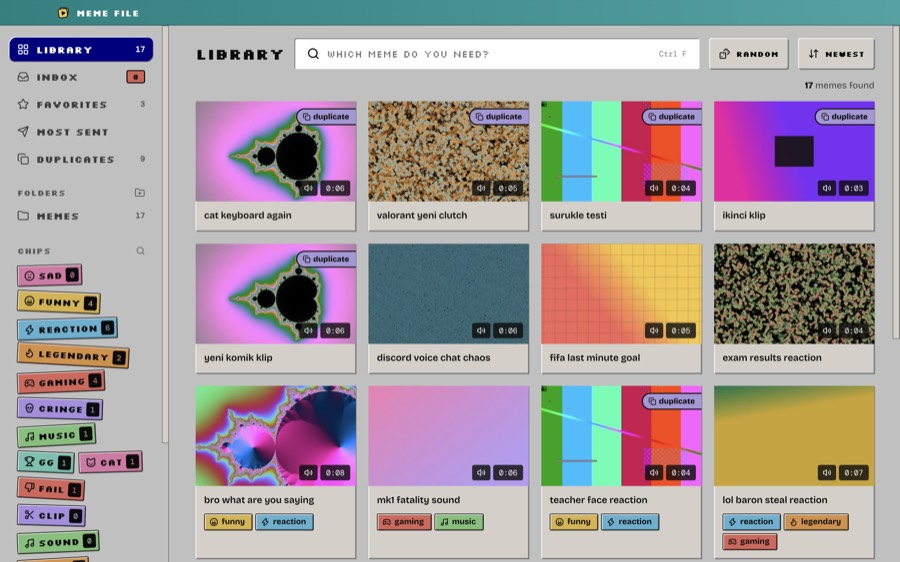
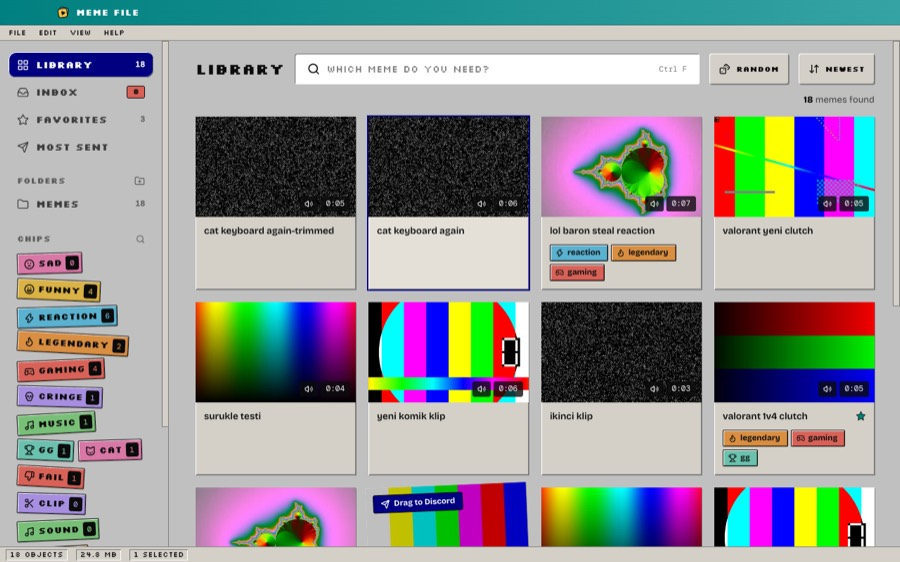
docs: README'ler ve tema ekran görüntüleri v0.4.0'a güncellendi

diff --git a/README.md b/README.md
@@ -47,7 +47,7 @@ tagging layer on top of them.
 <td valign="top"><b>Stays fast</b><br/>Virtualized grid and SQLite full-text search; smooth 60 FPS scrolling as the library grows.</td>
 </tr>
 <tr>
-<td valign="top"><b>Four themes</b><br/>Sticker Wall, a yellow hologram Cyberpunk, a steel-plate Modern and a Windows 98 Old School, each with its own chips and motion.</td>
+<td valign="top"><b>Four themes with a soul</b><br/>Sticker Wall, a yellow hologram Cyberpunk, a steel-plate Modern and a Windows 98 Old School — each with its own typography, chips, motion and sound.</td>
 <td valign="top"><b>Drop it in</b><br/>Drag files onto the window or press <code>Ctrl+V</code>; the Inbox even suggests chips from the file name.</td>
 <td valign="top"><b>Meme text</b><br/>Add top and bottom captions to a clip, exactly as you see them in the preview.</td>
 </tr>
@@ -99,14 +99,16 @@ The estimated size updates live; the encoder picks bitrate, resolution and frame
 **Editing**
 
 - Trim, fit to 10 MB / 50 MB, or make a GIF; the result is copied to the clipboard, and new videos inherit the chips
-- Burn **meme text** onto a clip: top and bottom captions, drawn in the preview exactly as they come out
+- Burn **meme text** onto a clip: top and bottom captions in three sizes, drawn in the preview exactly as they come out
 - Select several videos and fit them all at once from the selection bar
 - Rename (the file on disk too) and move to the Recycle Bin; moved or renamed files keep their chips
 
 **App**
 
 - **Stats** screen: totals, the last 12 months, most sent videos, chip spread and records
-- Four themes with their own chips, backgrounds and motion
+- Four themes with their own chips, backgrounds, motion and sound
+- Interface sounds generated on the fly, one voice per theme — switch off in Settings
+- Text size for the whole interface (small / medium / large)
 - English and Turkish UI, following the system language
 - System tray, start with Windows, automatic updates from GitHub Releases, JSON backup & restore
 
@@ -124,7 +126,12 @@ The estimated size updates live; the encoder picks bitrate, resolution and frame
 
 ## Themes
 
-Themes are not just a palette swap: the shell, the card frames, the chip surface, the typeface and the motion profile all change together. Your chip colors stay in the database and are translated onto the theme's surface.
+Themes are not a palette swap: the shell, the card frames, the chip surface, the typeface, the motion profile and even the interface sounds change together. Your chip colors stay in the database and are translated onto the theme's surface.
+
+- **Sticker Wall** — lined notebook, bouncy springs, a paper corner that folds up on hover, paper-rustle sounds
+- **Cyberpunk** — boots like an OS (`NEON_PRISM_OS`), live status strip, CRT scanlines, Chakra Petch / Share Tech Mono, hologram chips whose labels tear into red and cyan on hover, cyan-and-red electric arcs crackling around the hovered card, a terminal-style player, alarm-red buttons
+- **Modern** — brushed steel plates, rivets on the name strip, a light sweeping across the card, calm slow motion
+- **Old School 98** — grey bevels, teal title bar, a real File/Edit/View/Help menu, a status bar (`17 objects · 20.0 MB`), classic dialog boxes and system beeps
 
 | **Sticker Wall** · warm dark, lined notebook                               | **Cyberpunk** · yellow hologram                                             |
 | -------------------------------------------------------------------------- | --------------------------------------------------------------------------- |

diff --git a/README.tr.md b/README.tr.md
@@ -94,14 +94,16 @@ Tahmini boyut canlı güncellenir; kodlayıcı hedefe göre bit hızı, çözün
 **Düzenleme**
 
 - Kırp, 10 MB / 50 MB'a sığdır ya da GIF yap; sonuç panoya kopyalanır, yeni videolar chip'leri devralır
-- Klibe **meme yazısı** bas: üst ve alt yazı, önizlemede gördüğünle birebir aynı çıkar
+- Klibe **meme yazısı** bas: üç boyutta üst ve alt yazı, önizlemede gördüğünle birebir aynı çıkar
 - Birden fazla video seçip hepsini seçim çubuğundan tek seferde sığdır
 - Yeniden adlandırma (diskteki dosya da) ve Geri Dönüşüm Kutusu'na taşıma; taşınan ya da adı değişen dosyalar chip'lerini korur
 
 **Uygulama**
 
 - **İstatistik** ekranı: toplamlar, son 12 ay, en çok gönderilenler, chip dağılımı ve rekorlar
-- Kendi chip'i, arka planı ve hareketi olan dört tema
+- Kendi chip'i, arka planı, hareketi ve sesi olan dört tema
+- Anlık üretilen arayüz sesleri, her temanın kendi tınısı — ayarlardan kapatılabiliyor
+- Arayüz boyutu (küçük / orta / büyük)
 - Türkçe ve İngilizce arayüz, sistem diline göre
 - Sistem tepsisi, Windows ile başlatma, GitHub Releases'tan otomatik güncelleme, JSON yedekleme
 
@@ -119,7 +121,12 @@ Tahmini boyut canlı güncellenir; kodlayıcı hedefe göre bit hızı, çözün
 
 ## Temalar
 
-Tema sadece palet değiştirmiyor: kabuk, kart çerçevesi, chip yüzeyi, yazı tipi ve hareket profili birlikte değişiyor. Chip renkleri veritabanında olduğu gibi kalıyor, ekrana çizilirken temanın yüzeyine çevriliyor.
+Tema palet değiştirmekten ibaret değil: kabuk, kart çerçevesi, chip yüzeyi, yazı tipi, hareket profili ve arayüz sesleri birlikte değişiyor. Chip renkleri veritabanında olduğu gibi kalıyor, ekrana çizilirken temanın yüzeyine çevriliyor.
+
+- **Sticker Duvarı** — çizgili defter, zıplayan yaylar, karta gelince kıvrılan kâğıt köşesi, kâğıt hışırtısı sesleri
+- **Cyberpunk** — bir işletim sistemi gibi açılıyor (`NEON_PRISM_OS`), canlı durum şeridi, CRT tarama çizgileri, Chakra Petch / Share Tech Mono, üzerine gelince yazısı kırmızı-camgöbeği ayrışan hologram chip'ler, kartın etrafında çatırdayan camgöbeği-kırmızı elektrik arkı, terminal görünümlü oynatıcı, alarm gibi yanıp sönen düğmeler
+- **Modern** — fırçalanmış çelik plakalar, ad şeridinde perçinler, kartın üstünden geçen ışık, sakin ve yavaş hareket
+- **Old School 98** — gri kabartmalar, teal başlık çubuğu, gerçek Dosya/Düzen/Görünüm/Yardım menüsü, durum çubuğu (`17 nesne · 20.0 MB`), klasik uyarı pencereleri ve sistem bip'leri
 
 | **Sticker Duvarı** · sıcak koyu, çizgili defter                               | **Cyberpunk** · sarı hologram                                                |
 | ----------------------------------------------------------------------------- | ---------------------------------------------------------------------------- |
